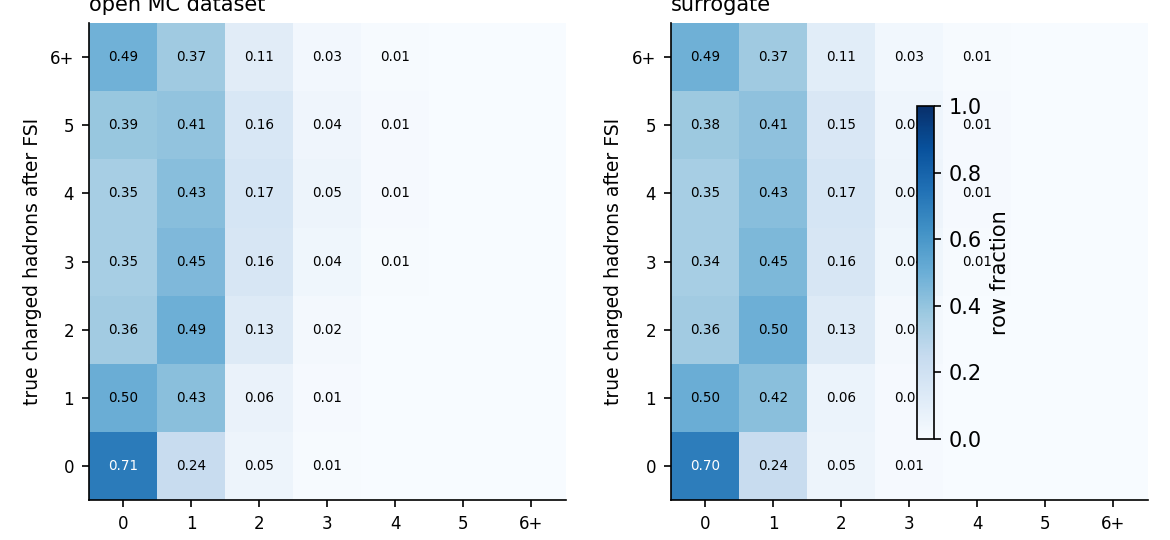
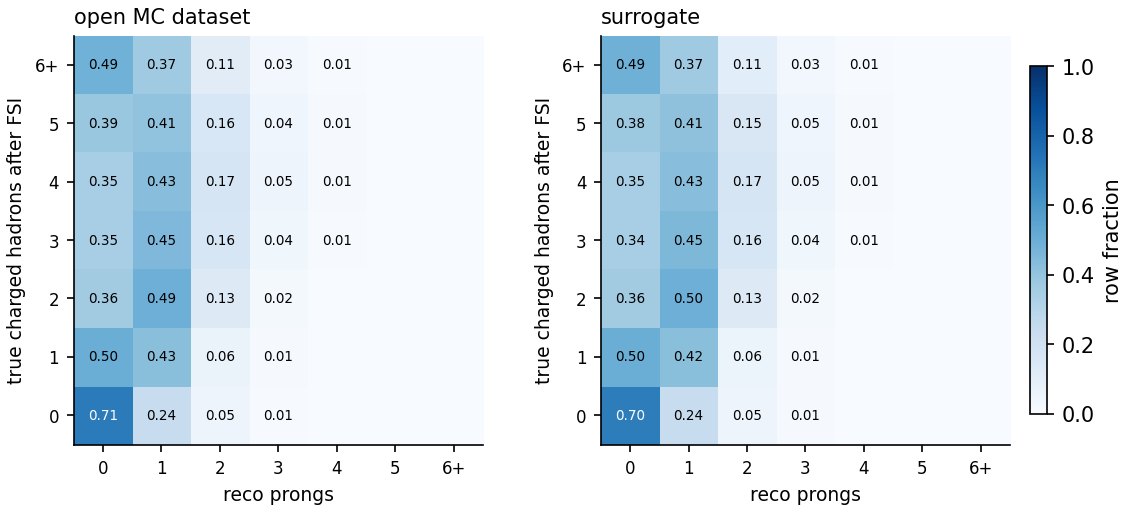
paper_fig_confusion: constrained layout, tight bounding box
Claude-Session: https://claude.ai/code/session_01WonotUddxf69Fsc1KRUvp3

Changed region(s): [[0.4646, 0.0, 0.9602, 1.0], [0.0, 0.0, 0.4646, 1.0], [0.8982, 0.125, 0.9912, 0.8438]]

diff --git a/scripts/paper_fig_confusion.py b/scripts/paper_fig_confusion.py
@@ -10,7 +10,7 @@ ap = argparse.ArgumentParser(); ap.add_argument("--eval", default="reports/m3_1A
 M = json.load(open(pathlib.Path(a.eval) / "metrics_tier2.json"))["confusion_true_charged_vs_reco"]
 rownorm = lambda C: (lambda C: C / np.clip(C.sum(1, keepdims=True), 1, None))(np.asarray(C, float))
 labels = [str(k) for k in range(6)] + ["6+"]
-fig, axs = plots.plt.subplots(1, 2, figsize=(7.8, 3.6))
+fig, axs = plots.plt.subplots(1, 2, figsize=(7.8, 3.4), layout="constrained")
 for ax, (C, title) in zip(axs, ((rownorm(M["masteranadev"]), "open MC dataset"), (rownorm(M["surrogate"]), "surrogate"))):
     im = ax.imshow(C, vmin=0, vmax=1, cmap="Blues", origin="lower")
     for i in range(C.shape[0]):
@@ -18,4 +18,4 @@ for ax, (C, title) in zip(axs, ((rownorm(M["masteranadev"]), "open MC dataset"),
             if C[i, j] >= 0.005: ax.text(j, i, f"{C[i,j]:.2f}", ha="center", va="center", fontsize=6.5, color="white" if C[i, j] > 0.6 else "black")
     ax.set_xticks(range(7)); ax.set_yticks(range(7)); ax.set_xticklabels(labels, fontsize=8); ax.set_yticklabels(labels, fontsize=8); ax.grid(False)
     ax.set_xlabel("reco prongs", fontsize=9); ax.set_ylabel("true charged hadrons after FSI", fontsize=9); ax.set_title(title, fontsize=10, loc="left")
-fig.colorbar(im, ax=axs.tolist(), shrink=0.8, label="row fraction"); plots.save(fig, pathlib.Path(a.out)); print("written", a.out)
+fig.colorbar(im, ax=axs.tolist(), shrink=0.85, pad=0.02, label="row fraction"); fig.savefig(a.out, bbox_inches="tight", pad_inches=0.05); plots.plt.close(fig); print("written", a.out)
